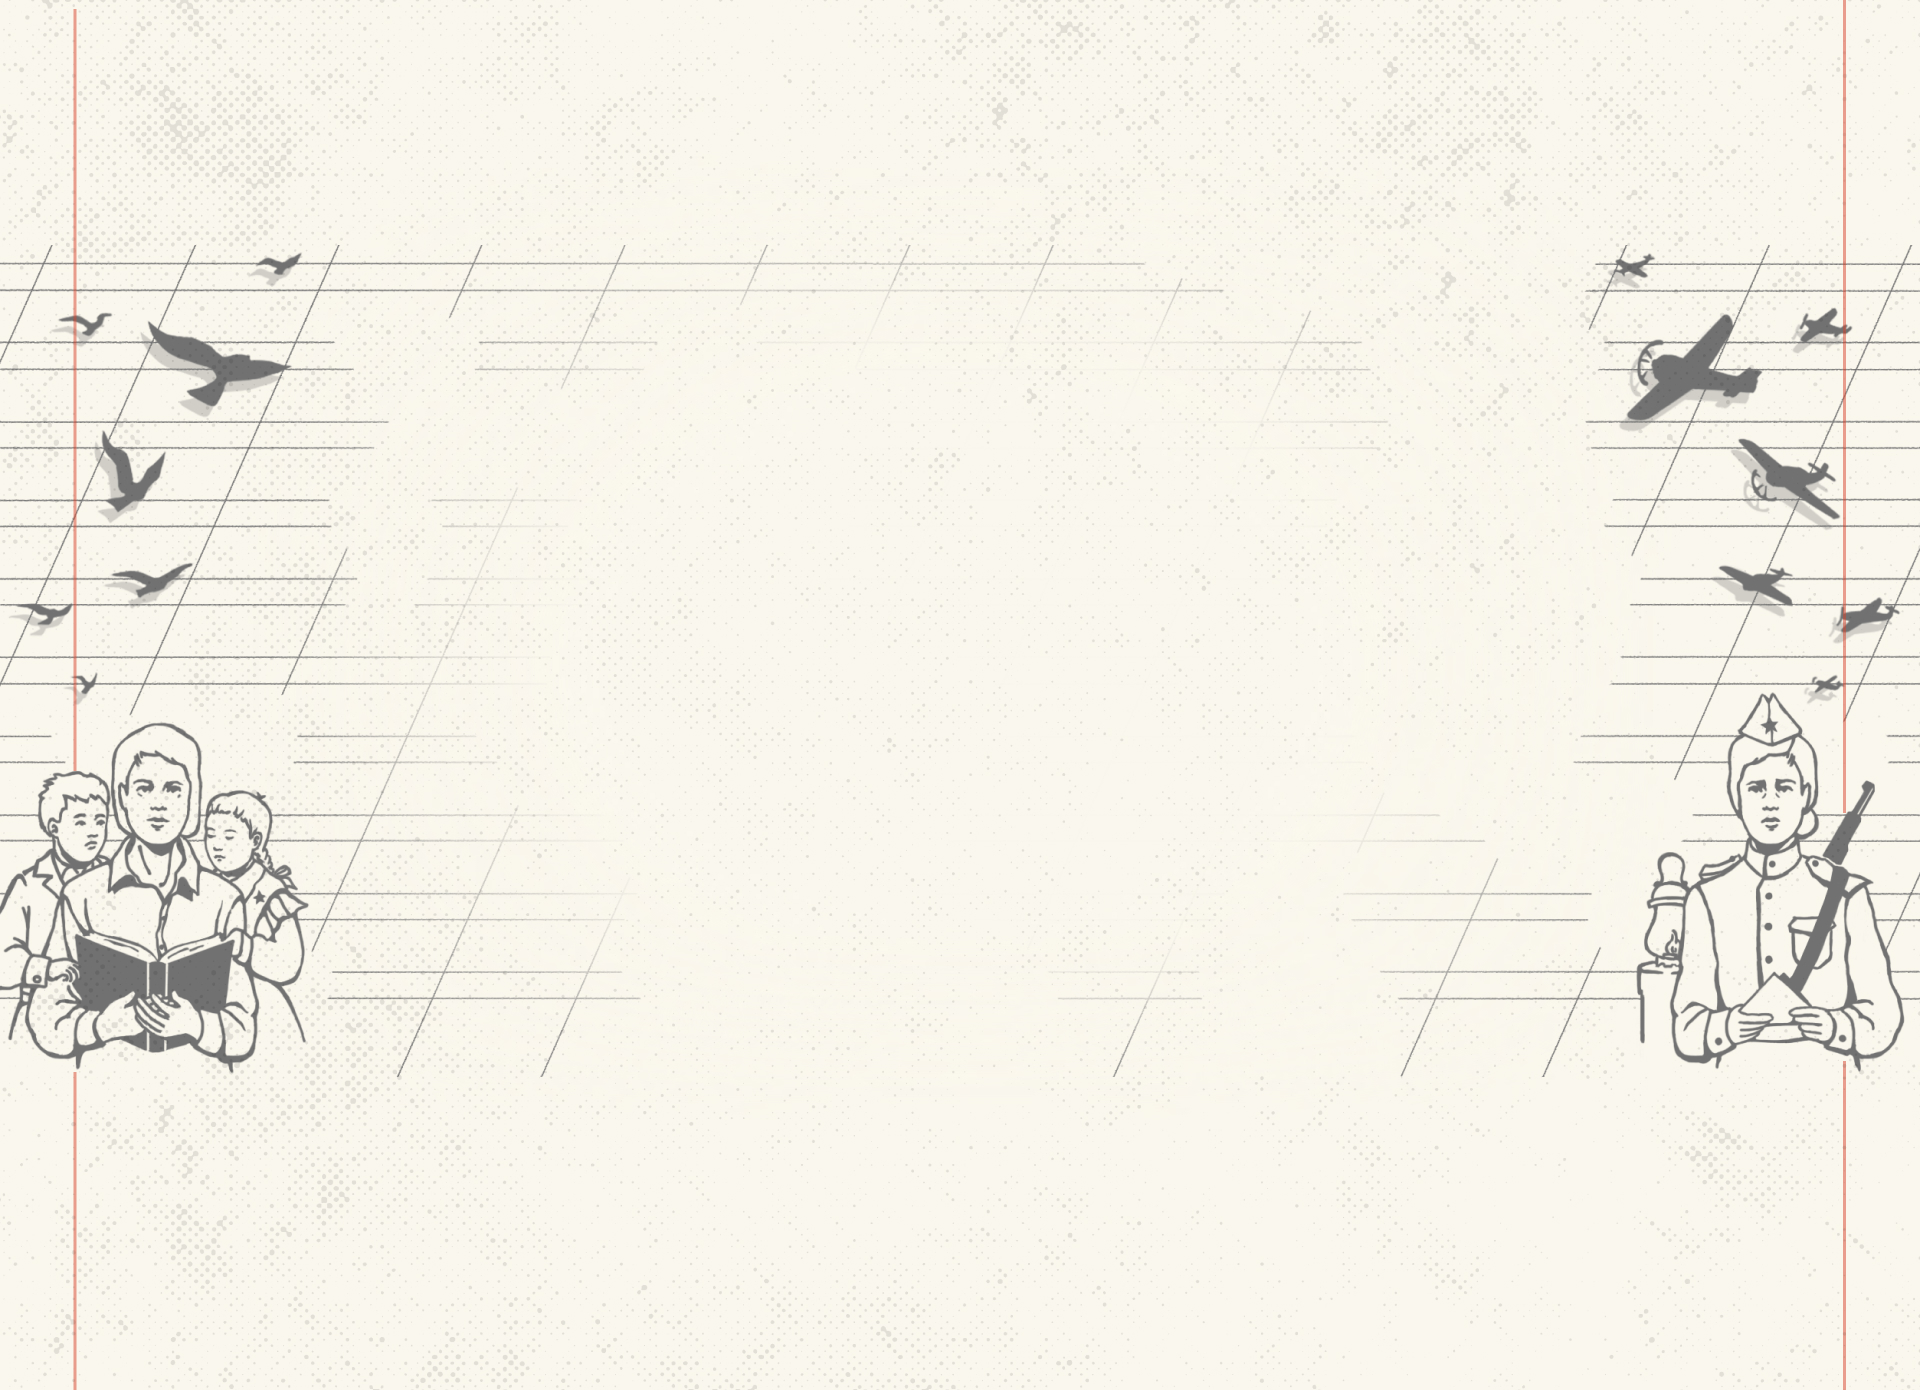
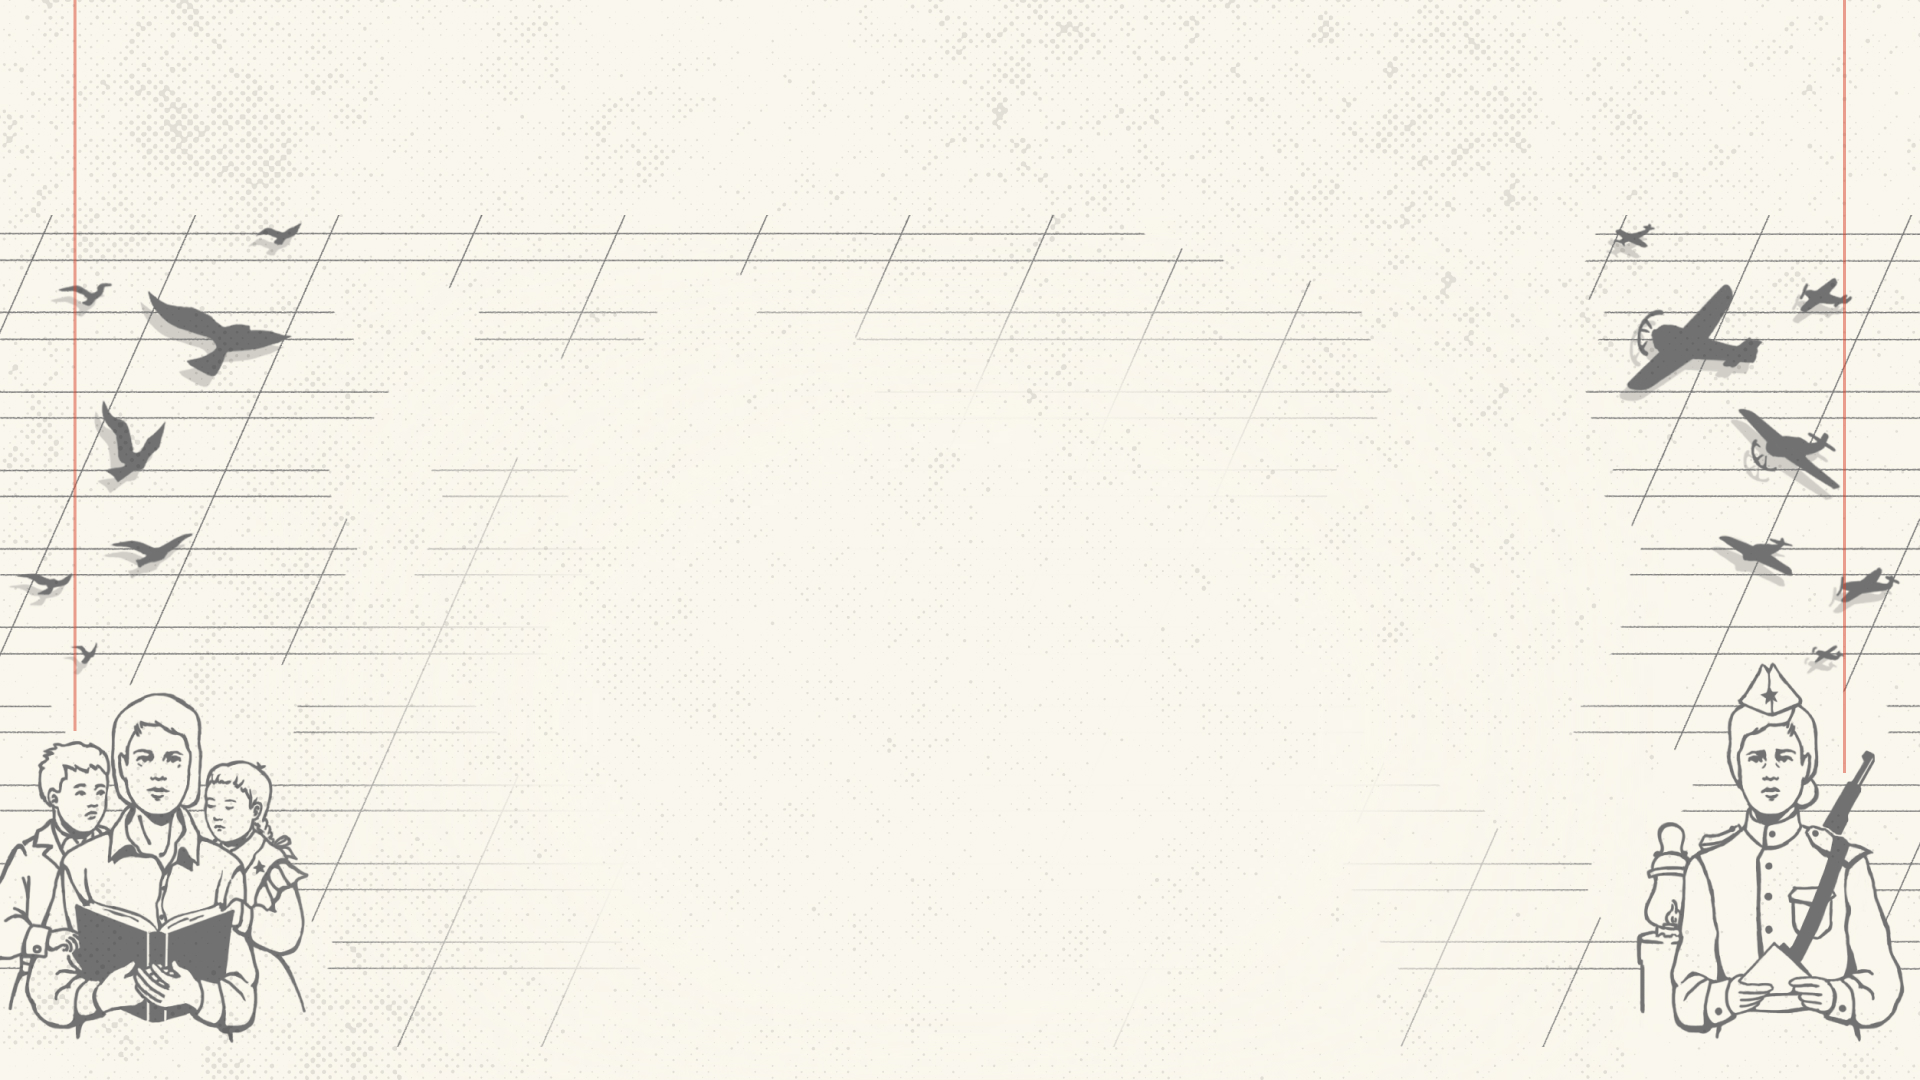
adssa

diff --git a/src/templates/Preview/index.jsx b/src/templates/Preview/index.jsx
@@ -40,8 +40,9 @@ export default (props) => {
 
 
   useEffect(() => {
-    let grayImg = '/images/main-fone.png';
-    let colorImg = '/images/main-fone-active.png';
+    if(!THREE) return 
+    let colorImg  = '/images/main-fone.png';
+    let grayImg = '/images/main-fone-active.png';
     let coords = [0, 0]
     let intervalIsBlock = false;
     let viewportAspect = window.innerWidth / window.innerHeight;

diff --git a/src/templates/Preview/style.module.scss b/src/templates/Preview/style.module.scss
@@ -35,7 +35,8 @@ $a-duration: translate 1s cubic-bezier(.65,-0.45,.35,1.33);
 	
 		@include isMobile{
 			display: block;
-			object-position: 60% bottom;
+			object-position: 60% top;
+			// object-position: right top;
 		}
 	}
 
